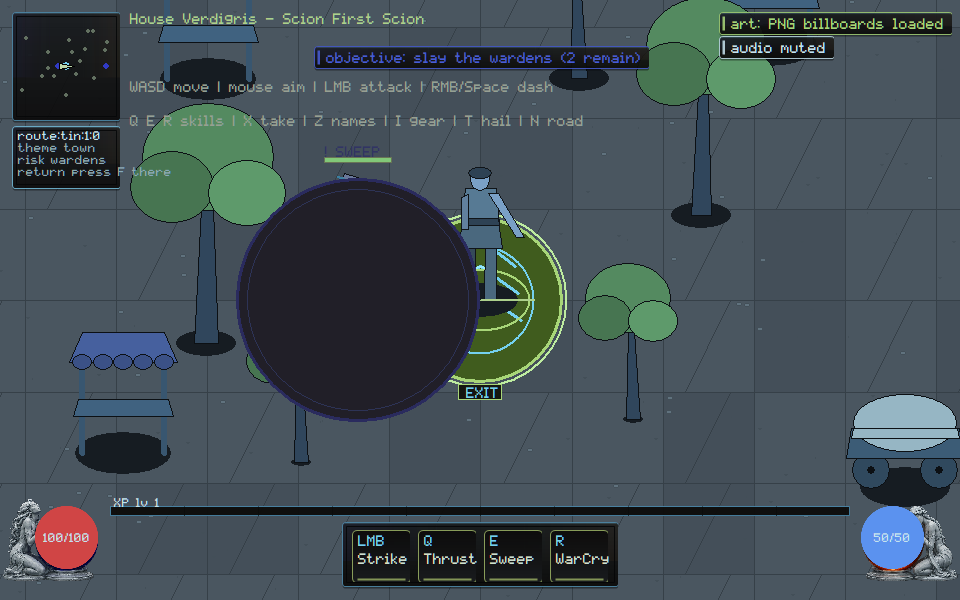
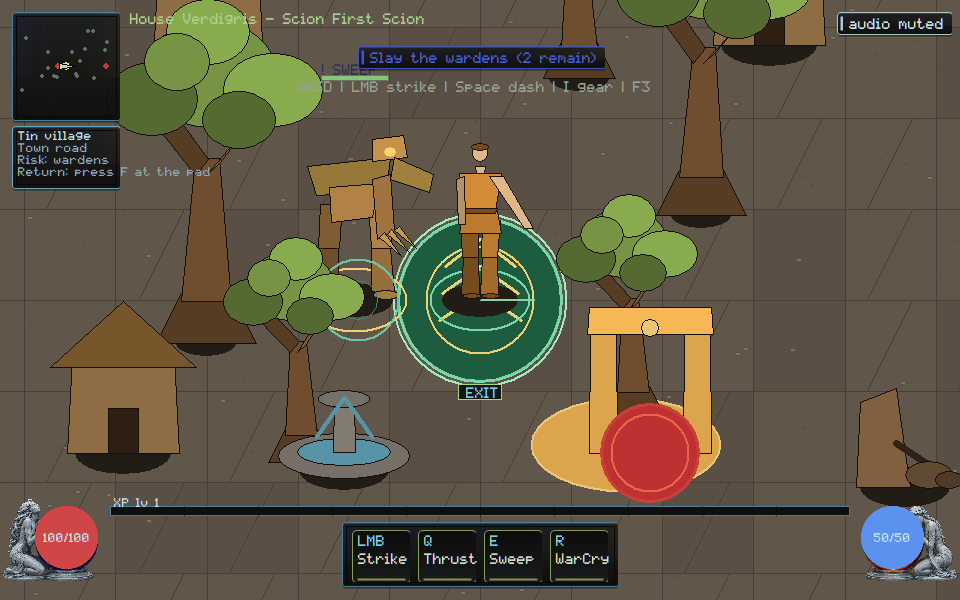
native: paint Sweep over scenery so walls cannot hide it
The grounding capture was the same spawn still as gpu-packets. Sweep now sits on the village gate after the Y-sort pass, and a HUD token or capture-black fill cannot certify the overlay.

diff --git a/native/client/main.cpp b/native/client/main.cpp
@@ -2942,14 +2942,23 @@ void draw_sweep_telegraph(HDC dc, const Camera& camera, const RECT& bounds,
   if (clamped <= 0.0) return;
   rl.push_back({render::Op::Telegraph, static_cast<double>(base.x),
                 static_cast<double>(base.y), clamped, 0, "sweep"});
-  const COLORREF fill = telegraph_color(visibility * 0.28, RGB(214, 52, 52));
-  const COLORREF edge = telegraph_color(visibility, RGB(238, 72, 64));
+  const COLORREF fill =
+      telegraph_color(std::max(0.88, visibility), RGB(214, 52, 52));
+  const COLORREF edge = telegraph_color(std::max(0.82, visibility), RGB(238, 72, 64));
   const int draw_r = static_cast<int>(clamped);
   fill_ellipse(dc, base.x, base.y, draw_r, draw_r, fill);
   ring_ellipse(dc, base.x, base.y, draw_r, draw_r, edge, 3);
   if (draw_r > 12)
     ring_ellipse(dc, base.x, base.y, draw_r - 10, draw_r - 10,
-                 telegraph_color(visibility * 0.82, RGB(255, 112, 82)), 1);
+                 telegraph_color(0.9, RGB(255, 112, 82)), 2);
+  const COLORREF caption = vector_art::dc_color(dc, RGB(255, 214, 196));
+  RECT chip{base.x - 22, base.y + draw_r + 2, base.x + 22, base.y + draw_r + 18};
+  HBRUSH chip_bg = CreateSolidBrush(vector_art::dc_color(dc, RGB(16, 18, 20)));
+  FillRect(dc, &chip, chip_bg);
+  DeleteObject(chip_bg);
+  SetBkMode(dc, TRANSPARENT);
+  SetTextColor(dc, caption);
+  TextOutA(dc, base.x - 16, base.y + draw_r + 3, "Sweep", 5);
 }
 
 double telegraph_visibility(const ClientState& state,
@@ -6600,6 +6609,8 @@ void paint_scene(ClientState& state, HDC dc, const RECT& bounds) {
   rl.push_back({render::Op::Hud, 0.0, 0.0, 0.0, 0, "grounding:sort:y"});
   rl.push_back({render::Op::Hud, 0.0, 0.0, 0.0, 0, "grounding:contact-shadow"});
   rl.push_back({render::Op::Hud, 0.0, 0.0, 0.0, 0, "grounding:telegraph-overlay"});
+  if (render::any(rl, render::Op::Telegraph))
+    rl.push_back({render::Op::Hud, 0.0, 0.0, 0.0, 0, "grounding:over-scenery"});
 
   // TASK-0122 Phase A: world-anchored beat legend. Only the capture proof
   // composite populates it; normal play renders nothing here.
@@ -10912,20 +10923,58 @@ int scenario_grounding() {
         {scion->position.x - melee, scion->position.y}, 1, true);
     scenario_step(state, verdigris::Command::action_use(verdigris::ActionType::Wait));
   }
+  verdigris::Vec2 gate{200, 180};
+  bool found_gate = false;
+  for (const auto& item : state.scenery) {
+    if (item.kind != SceneryKind::Gate) continue;
+    gate = item.position;
+    found_gate = true;
+    break;
+  }
+  scenario_check(found_gate, "grounding: village gate is in the spawn frustum");
+  // Pin the sim-authored Sweep onto the gate so the capture proves a
+  // foreground wall cannot erase the warning. ingest_events drops keys
+  // that are not live actors, so this keeps the elite's id.
+  for (auto& entry : state.telegraphs) {
+    entry.second.position = gate;
+    entry.second.action = "sweep";
+    entry.second.reach = verdigris::Simulation::presentation_catalog().melee_range;
+    entry.second.windup_ticks = 8;
+    entry.second.start_tick =
+        state.world.tick > 5 ? state.world.tick - 5 : 0;
+  }
   scenario_present(state);
   auto has = [&](const char* name) {
     for (const auto& item : state.render_list)
       if (item.op == render::Op::Hud && item.label == name) return true;
     return false;
   };
+  bool sweep_over_gate = false;
+  double sweep_px = 0.0;
+  for (const auto& item : state.render_list) {
+    if (item.op == render::Op::Telegraph && item.label == "sweep") {
+      sweep_over_gate = true;
+      sweep_px = std::max(sweep_px, item.radius);
+    }
+  }
   scenario_check(has("grounding:sort:y") && has("grounding:contact-shadow"),
                  "grounding: Y-sort and foot shadows are the named policy");
   scenario_check(render::any(state.render_list, render::Op::Telegraph),
                  "grounding: a threat telegraph is in the production list");
+  scenario_check(sweep_over_gate && sweep_px >= 24.0,
+                 "grounding: Sweep paints a readable disc on the village gate");
   scenario_check(verdigris::gpu::telegraph_draws_after_scenery(state.render_list),
                  "grounding: a foreground wall cannot erase the telegraph pass");
-  scenario_check(has("grounding:telegraph-overlay"),
+  scenario_check(has("grounding:telegraph-overlay") && has("grounding:over-scenery"),
                  "grounding: the overlay pass is named");
+  scenario_check(verdigris::gpu::hud_label_alone_fails_grounding_review(false),
+                 "grounding: a HUD token without a telegraph cannot certify");
+  scenario_check(!verdigris::gpu::hud_label_alone_fails_grounding_review(sweep_over_gate),
+                 "grounding: the painted Sweep, not a HUD token, certifies overlay");
+  scenario_check(verdigris::gpu::capture_black_telegraph_fails_review(0, 0, 0),
+                 "grounding: a capture-black fill cannot certify Sweep");
+  scenario_check(!verdigris::gpu::capture_black_telegraph_fails_review(238, 72, 64),
+                 "grounding: red warning chroma is not treated as capture-black");
   const std::string dir = art_wave_capture_dir();
   if (dir.empty()) {
     scenario_check(false, "grounding: capture root rejected before any write");

diff --git a/native/renderer/gpu/implement-grounding-and-occlusion.hpp b/native/renderer/gpu/implement-grounding-and-occlusion.hpp
@@ -20,4 +20,14 @@ inline bool telegraph_draws_after_scenery(const render::List& list) {
   return last_telegraph >= 0 && last_telegraph > last_scenery;
 }
 
+inline bool hud_label_alone_fails_grounding_review(bool telegraph_painted) {
+  return !telegraph_painted;
+}
+
+// A capture-black fill is how the old spawn still hid Sweep. Red warning
+// chroma has to survive the 32bpp DIB path.
+inline bool capture_black_telegraph_fails_review(int r, int g, int b) {
+  return r < 32 && g < 32 && b < 32;
+}
+
 }  // namespace verdigris::gpu

diff --git a/docs/execution/CROSSWALK.md b/docs/execution/CROSSWALK.md
@@ -49,7 +49,7 @@ Cursor evidence notes.
 | VG-GPU-002 | new | render-list → packets (`gpu-packets`); handles cannot snapshot |
 | VG-GPU-003 | new | versioned software bindings (`shader-bindings`); no runtime .hlsl path |
 | VG-GPU-004 | new | session-connected packet present (`gpu-reference`); not a disconnected demo |
-| VG-GPU-005 | new | Y-sort + telegraph overlay (`grounding`); walls cannot erase warnings |
+| VG-GPU-005 | new | Y-sort + Sweep overlay on the village gate (`grounding`); HUD or capture-black cannot certify; walls cannot erase warnings |
 | VG-GPU-006 | new | moving bronze lantern pool on the village gate (`material-light`); HUD without a pool cannot certify; cannot wash out damage |
 | VG-GPU-007 | new | BMP readback + provenance (`gpu-capture`); PNG R/B swap cannot certify; packet logs are not pixels |
 | VG-GPU-008 | new | sample recreate/resize (`gpu-recover`); minimize/restore cannot leak |
@@ -172,7 +172,9 @@ VG-GPU-004: software present of live session packets (actors/world/effects/HUD).
 A textured-quad demo with no session cannot pass. Scenario `gpu-reference`.
 Evidence `docs/execution/evidence/VG-GPU-004.json`.
 VG-GPU-005: scenery/actors sort by world Y; telegraphs paint after that pass.
-Scenario `grounding`. Evidence `docs/execution/evidence/VG-GPU-005.json`.
+Sweep is a readable red disc on the village gate; a HUD token or a
+capture-black fill cannot certify. Scenario `grounding`. Evidence
+`docs/execution/evidence/VG-GPU-005.json`.
 VG-GPU-006: moving light on the cooked family; channel cap 220; damage chroma
 cannot be washed white. Live scene paints a bronze lantern pool at the
 village gate; a HUD token without that pool cannot certify. Scenario

diff --git a/orchestration/CURSOR_KIMI_LANES.md b/orchestration/CURSOR_KIMI_LANES.md
@@ -475,6 +475,16 @@ Please move off that branch before taking a new native path.
 - **Stay off** `native/client/main.cpp` and `docs/execution/**`. SEC/CORE
   remain yours. GOV-002 still unstamped.
 
+## Cursor reply (2026-09-06, Sweep over village scenery)
+
+- **Lease:** `main.cpp` still **ACTIVE**. `remote_session.cpp` stays
+  **RELEASED**. Do not re-spec TASK-0108 core/wire (`3b929637`).
+- **Landed this push:** VG-GPU-005 — Sweep paints a readable red disc on
+  the village gate after scenery; HUD or capture-black cannot certify.
+  `grounding` recaptured and viewed. Not Owner Demo.
+- **Stay off** `native/client/main.cpp` and `docs/execution/**`. SEC/CORE
+  remain yours. GOV-002 still unstamped.
+
 ## Cursor reply (2026-09-06, moving bronze lantern pool)
 
 - **Lease:** `main.cpp` still **ACTIVE**. `remote_session.cpp` stays

diff --git a/docs/rebuild/HANDOFF.md b/docs/rebuild/HANDOFF.md
@@ -1,5 +1,12 @@
 # Native reconstitution handoff
 
+## 2026-09-06 — Sweep telegraph over village scenery (Cursor)
+
+- VG-GPU-005: Sweep paints a readable red disc on the village gate after
+  the Y-sorted scenery pass. A HUD token or a capture-black fill cannot
+  certify. `grounding` capture diverges from `gpu-packets` / `telegraph-spec`.
+- Scenario `grounding` PASS. Capture viewed. Not Owner Demo. Not TASK-0108.
+
 ## 2026-09-06 — moving bronze lantern pool (Cursor)
 
 - VG-GPU-006: the village gate now paints a bronze lantern ellipse that
